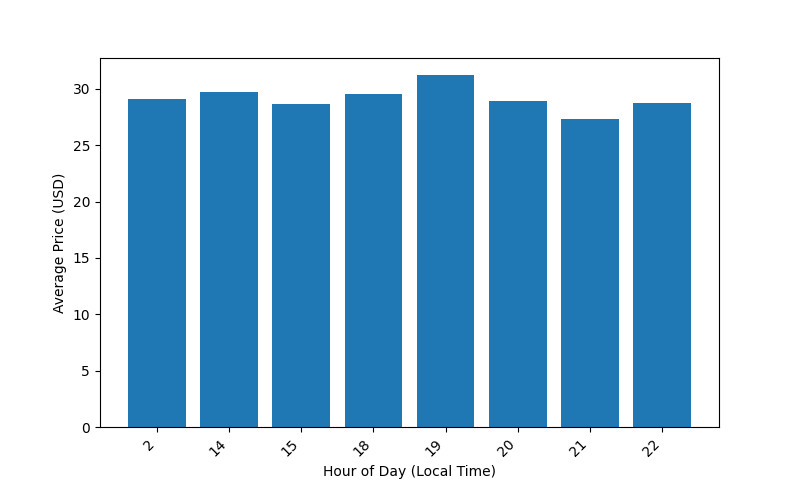
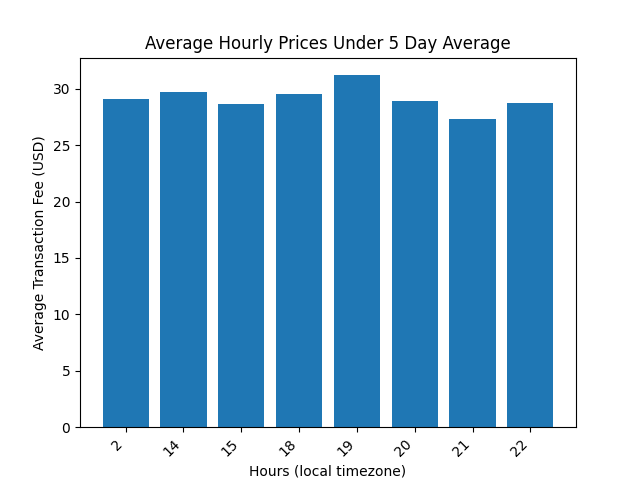
updated readme & plots

diff --git a/x_plot.py b/x_plot.py
@@ -37,10 +37,16 @@ for elem in dataset:
 fee_avg = np.percentile(fee,50)
 print("Hourly Average Transaction Fee over past 5 days: ${:.2f} USD".format(fee_avg))
 
+# for i,elem in enumerate(fee):
+#     if fee_avg > elem:
+#         indexes.append(i)
 
 for i,element in enumerate(dataset):
-    hours.append(element['HOUR'])
-    counter+=1
+    # if indexes[counter] == i:
+        hours.append(element['HOUR'])
+        # counter+=1
+        # if counter >= len(indexes):
+        #     break
 
 hour_freq = c(hours)
 
@@ -86,7 +92,7 @@ for elem in toprint:
     prices.append(elem['price'])
 
 plt.bar(times,prices)
-plt.title('Average Hourly Prices over the Past 5 Days')
+plt.title('Average Hourly Prices Under 5 Day Average')
 plt.xlabel('Hours (local timezone)')
 plt.ylabel('Average Transaction Fee (USD)')
 plt.xticks(ha='right',rotation=45)

diff --git a/README.md b/README.md
@@ -1,7 +1,19 @@
 # ETH-Fee-Time-Tool
 Find the best time to make ETH transactions!
+Utilizing flipsidecrypto VELOCITY database: https://app.flipsidecrypto.com/shareable/timing-for-claiming-rewards-bqT2Cu 
 
 ## What is the best time to make your transaction?
 This tool takes the average transaction fee (USD) over the past 5 days.
 * Utilizing flipsidecrypto VELOCITY database to query transaction history which returns an average transaction fee in the hour.
 * Reason for averaging over a longer period of time is because the *day of the week* can effect the average transaction fee. A 5-day period allows for a combination of weekedays and weekends while still representing current trends in the market. (see https://ethereumprice.org/gas/)
+
+## Average Transaction Fee by the hour over the past 5 days
+![All_Averages_graph](plots/all_averages.png)
+
+This on it's own is useful as it shows the hourly average transaction fees. Graphically we are able to see which hours have the lowest transaction fees. However, this can still be improved.
+
+## Narrowing the search
+
+We want to find the optimal time to stake and claim. The following graph shows only the hours that have average transaction fees under the overall average. 
+![Under_Average_graph](plots/under_average.png)
+
